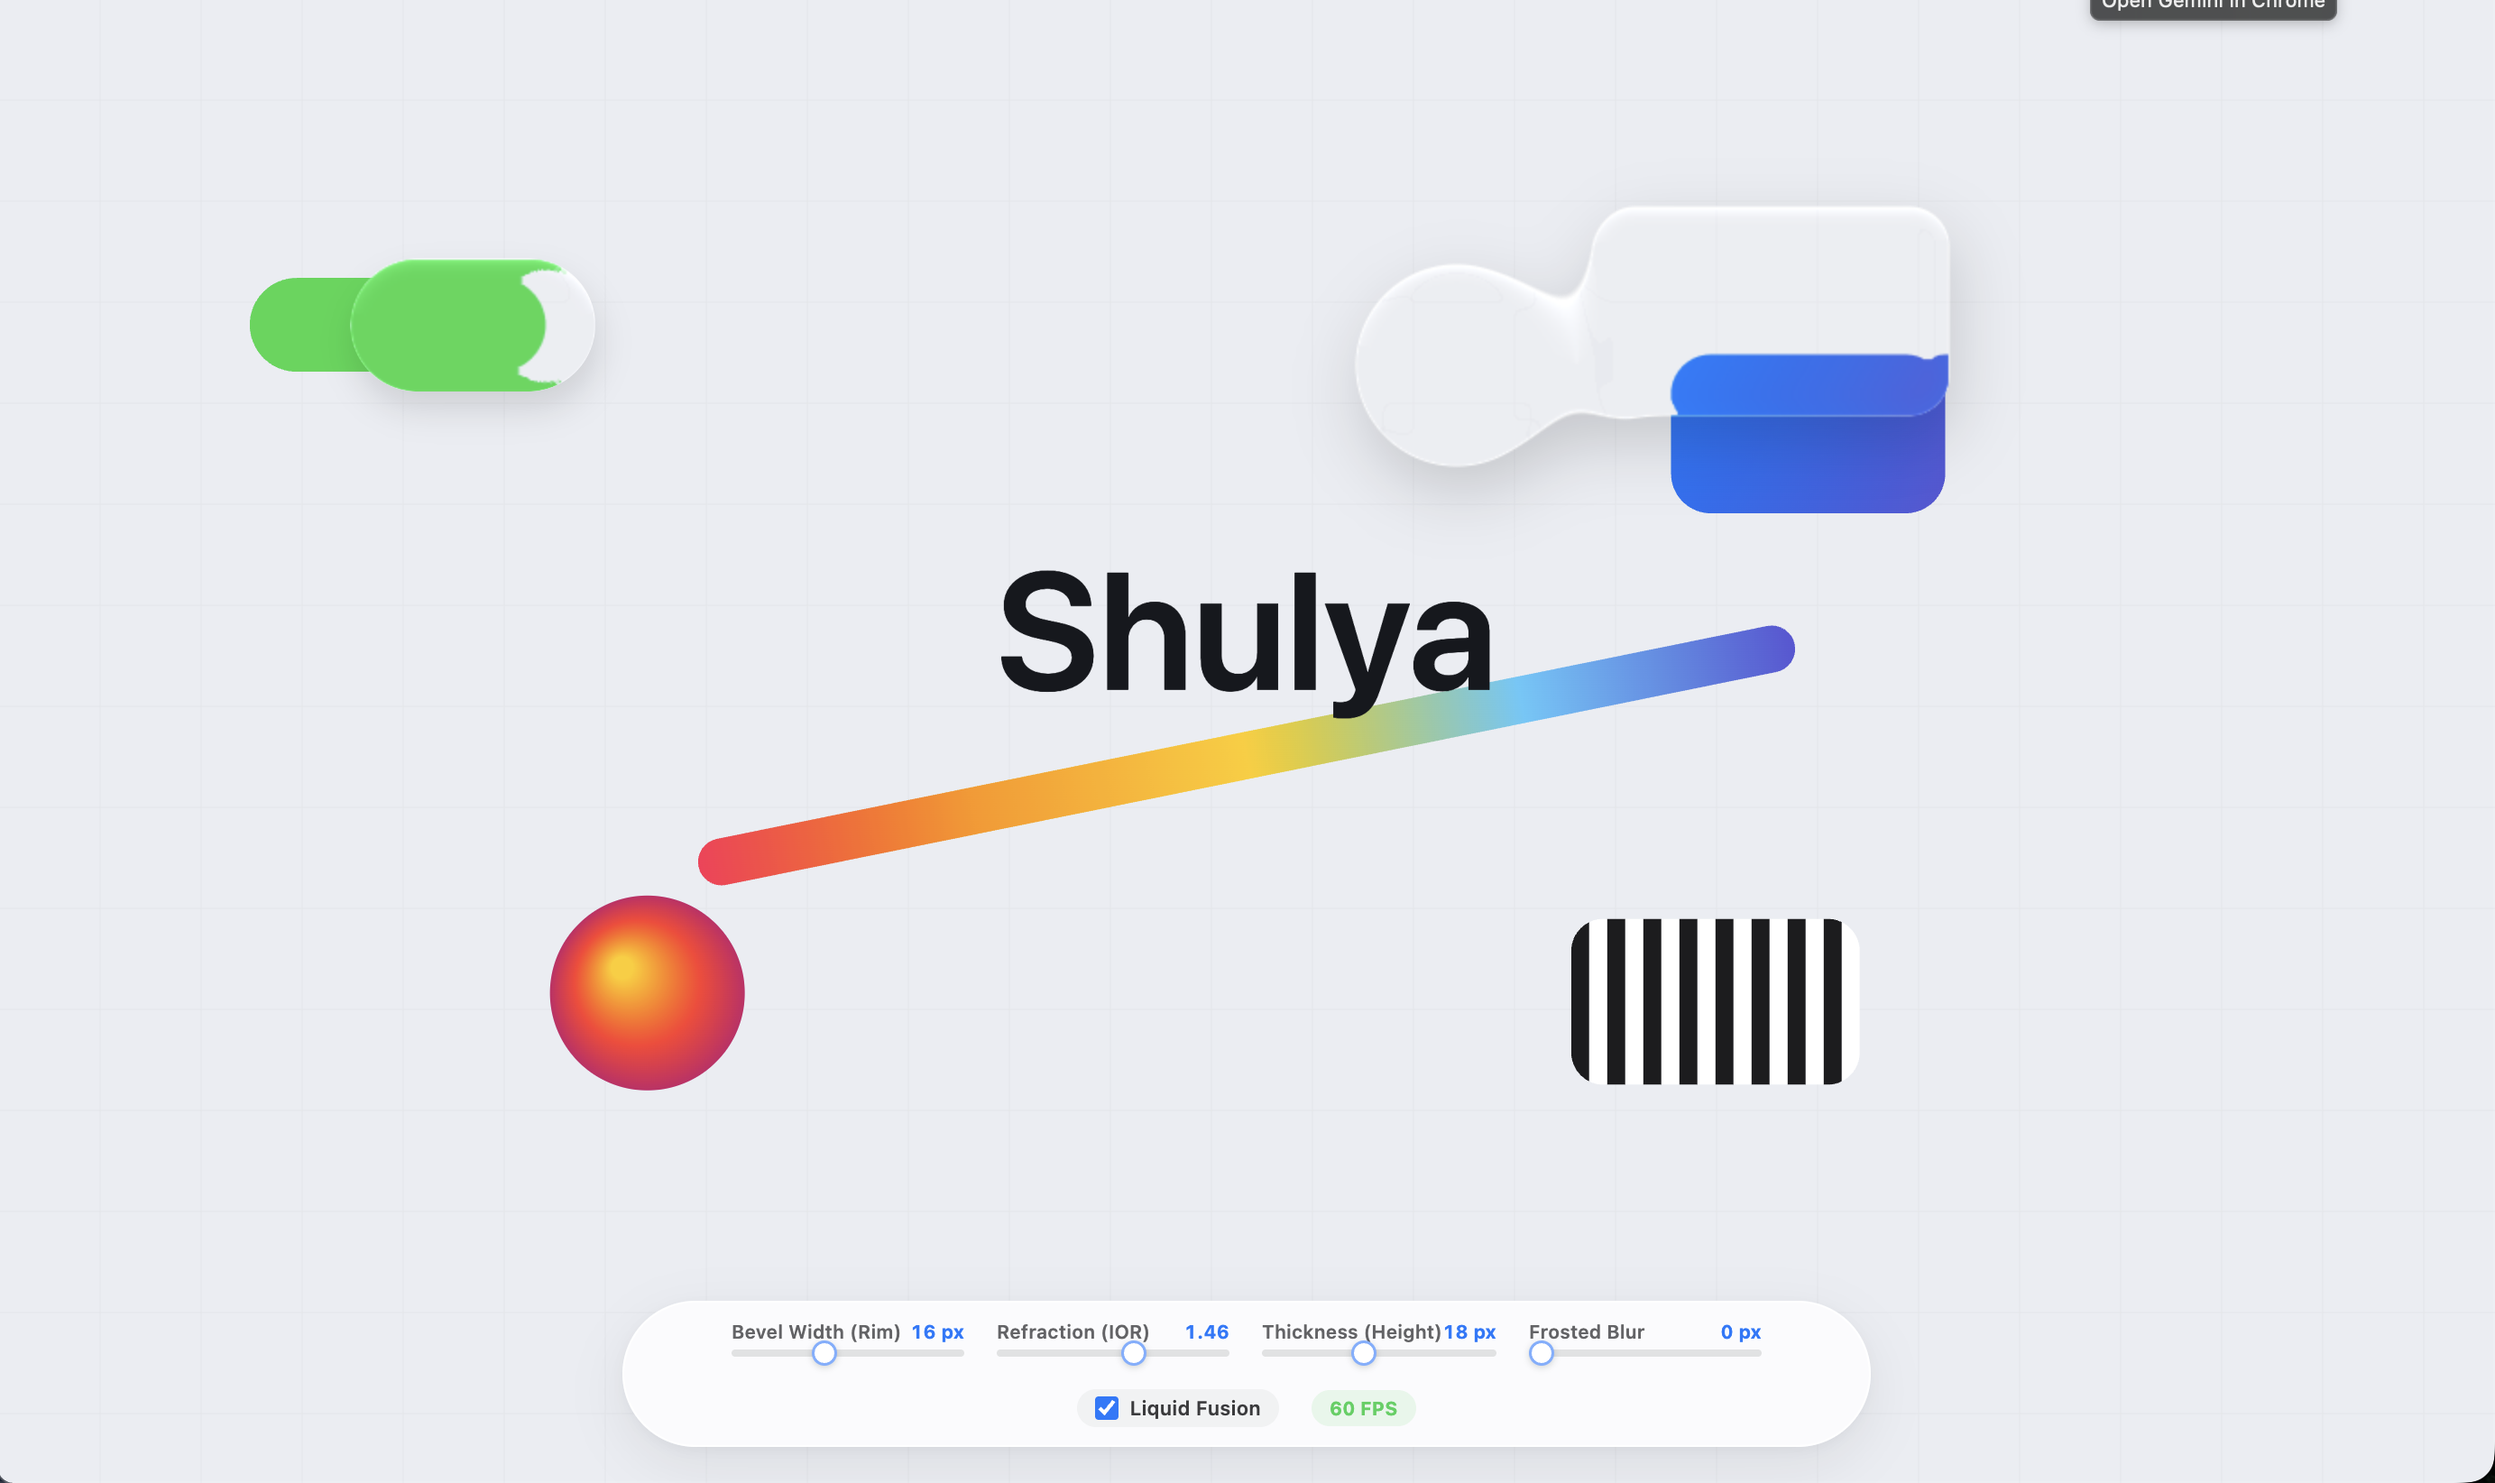
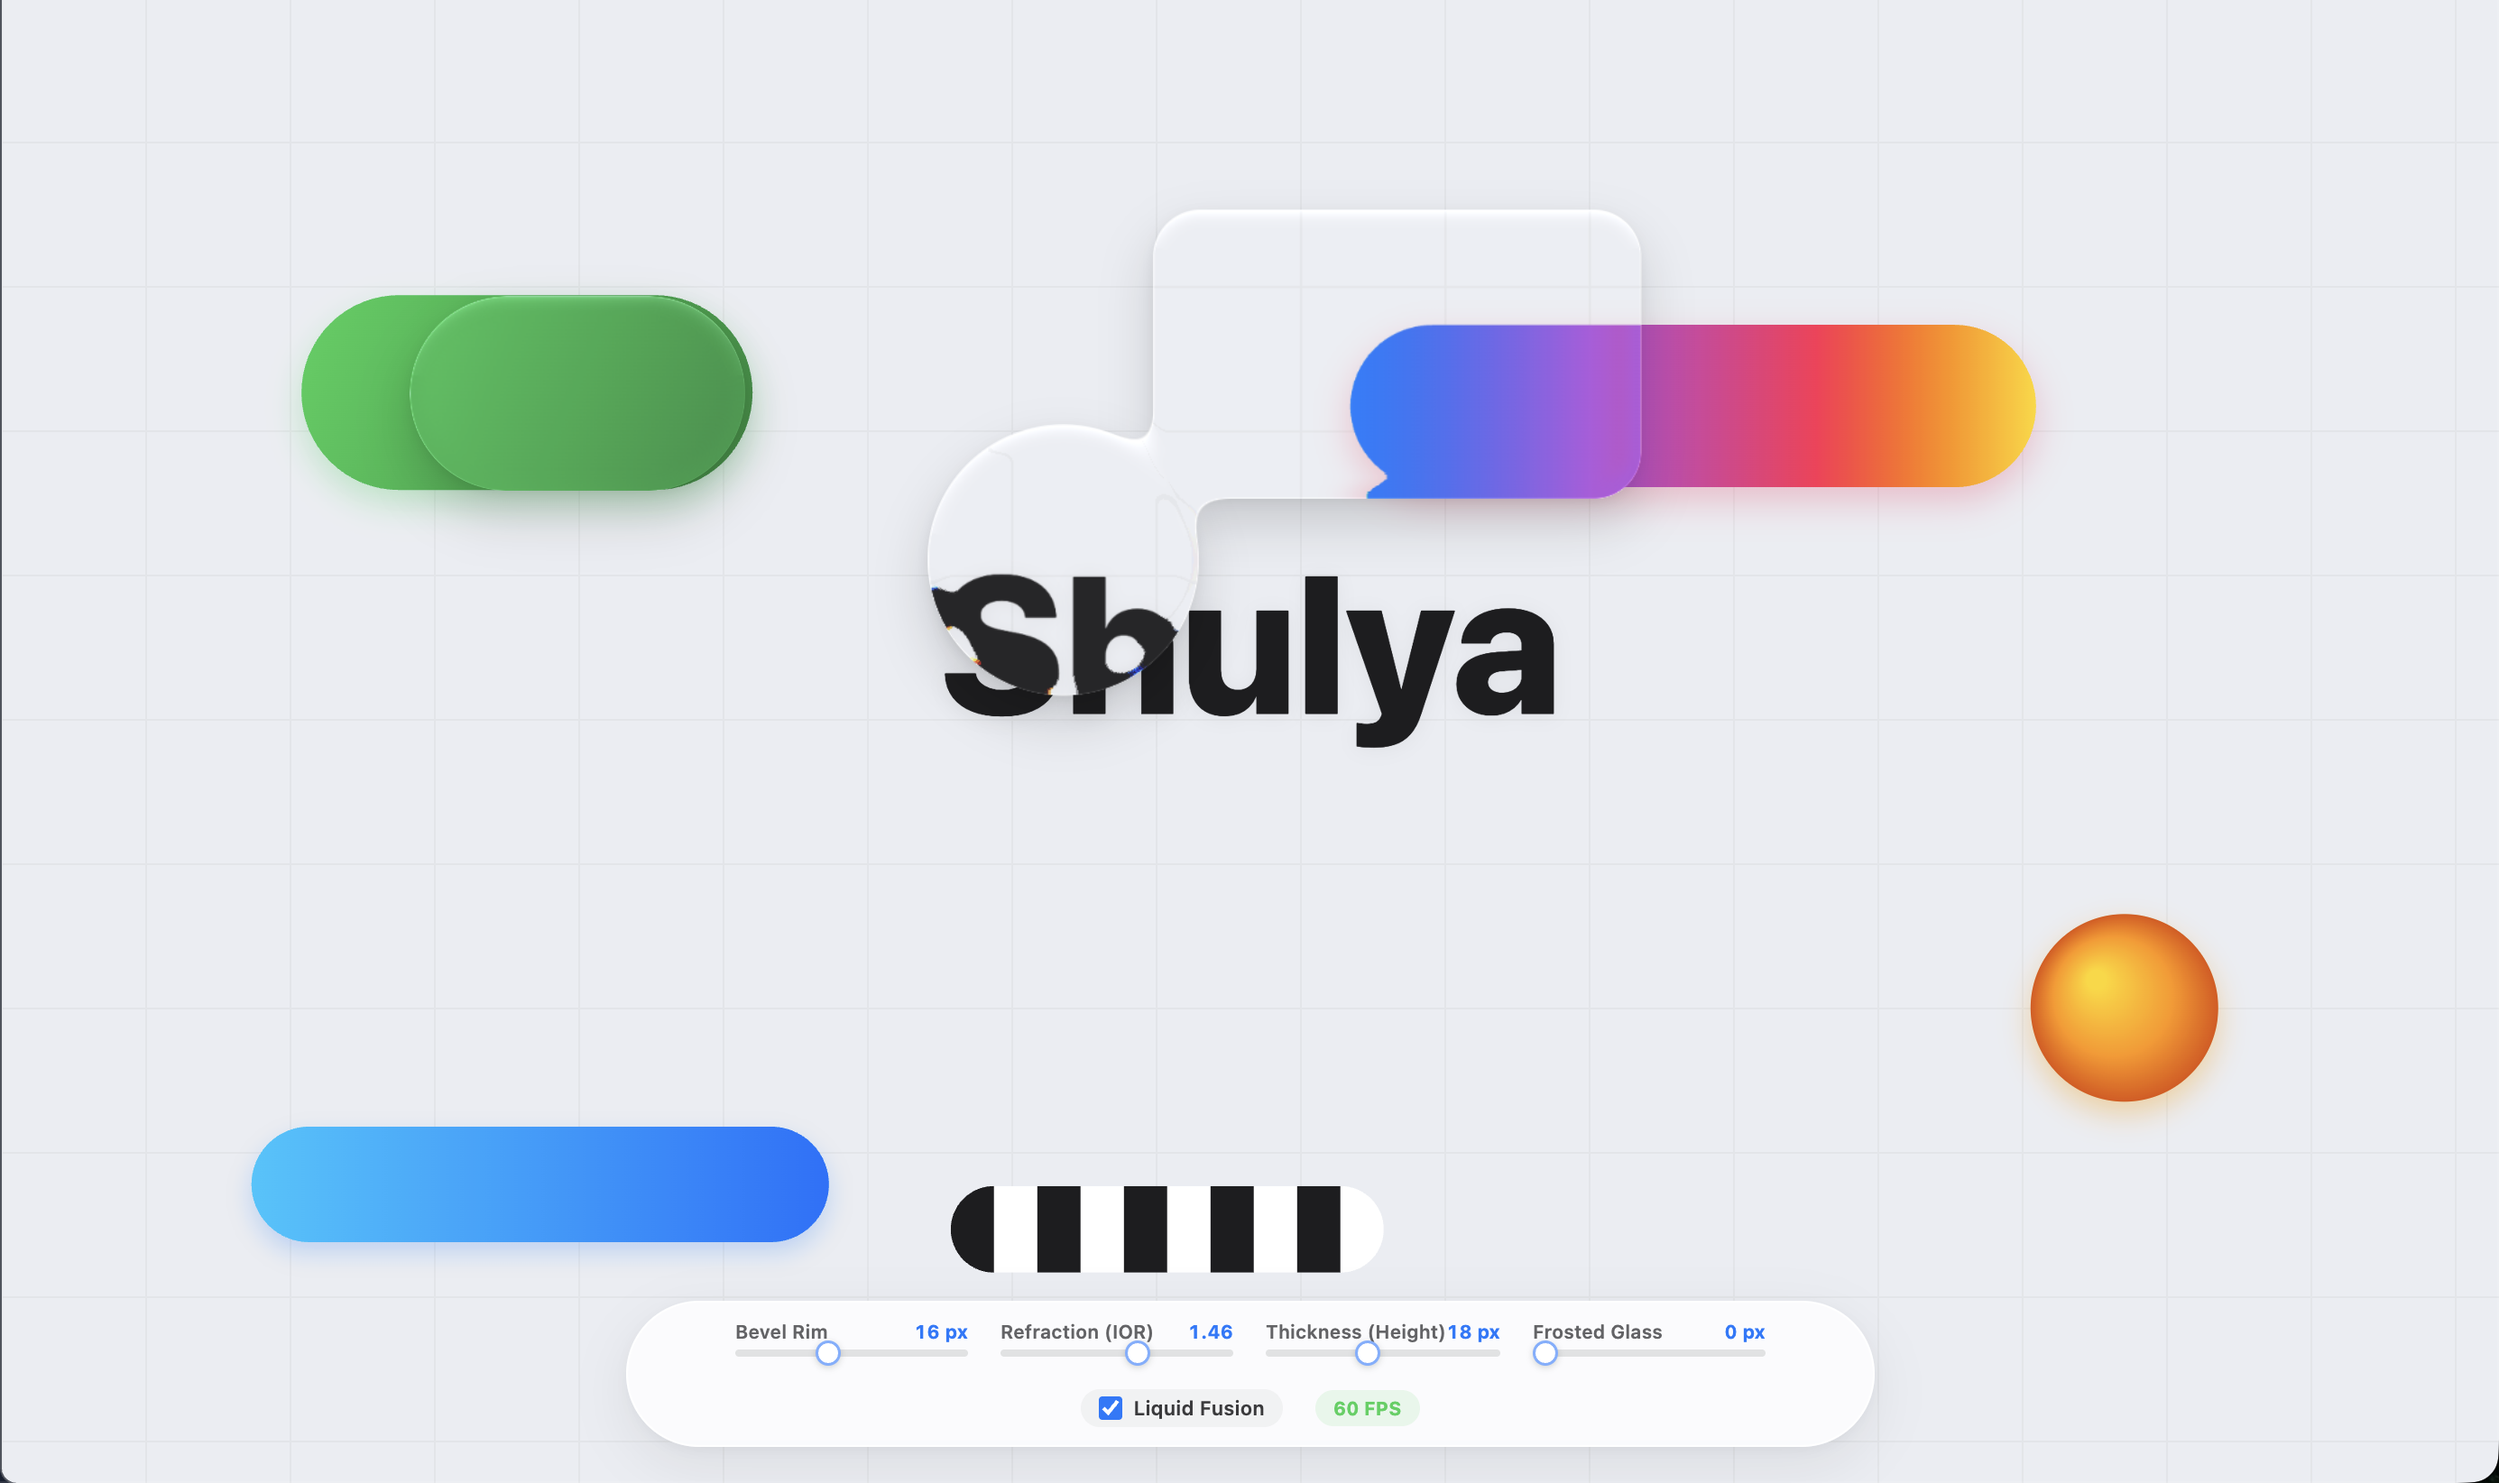
refactor: optimize rendering performance and refine fusion distance and blur fallbacks

diff --git a/src/core.js b/src/core.js
@@ -221,7 +221,7 @@ export function buildOpticalMapURI(width, height, borderRadius, rawOptions = {})
  */
 export function renderFusedCluster(ctx, sourceCtx, elements, rawOptions = {}, dpr = 1) {
   const options = normalizeOptions(rawOptions);
-  const fusionSpan = options.fusion ? (rawOptions.fusionDistance ?? 44) * dpr : 0;
+  const fusionSpan = options.fusion ? (rawOptions.fusionDistance ?? 24) * dpr : 0;
   const rimPx = Math.max(1, options.rim * dpr);
   const ior = options.ior;
   const heightPx = options.height * dpr;
@@ -259,19 +259,26 @@ export function renderFusedCluster(ctx, sourceCtx, elements, rawOptions = {}, dp
   const dstData = dstImg.data;
 
   const distGrid = new Float32Array(boxW * boxH);
-  const prep = elements.map((b) => ({
-    cx: (b.x + b.w * 0.5) * dpr,
-    cy: (b.y + b.h * 0.5) * dpr,
-    halfW: b.w * 0.5 * dpr,
-    halfH: b.h * 0.5 * dpr,
-    r: Math.min((b.borderRadius ?? 0) * dpr, b.w * 0.5 * dpr, b.h * 0.5 * dpr),
-    isCircle: b.shape === 'circle',
-    fusion: b.fusion !== undefined ? Boolean(b.fusion) : options.fusion,
-    tintR: b.tint ? b.tint[0] : 15,
-    tintG: b.tint ? b.tint[1] : 23,
-    tintB: b.tint ? b.tint[2] : 42,
-    tintA: b.tint ? b.tint[3] : 0.35
-  }));
+  const prep = elements.map((b) => {
+    const halfW = b.w * 0.5 * dpr;
+    const halfH = b.h * 0.5 * dpr;
+    const rad = (b.borderRadius ?? 0) * dpr;
+    const r = Math.min(rad, halfW, halfH);
+    const isCircle = b.shape === 'circle' || (Math.abs(halfW - halfH) < 1.0 && Math.abs(r - halfW) < 1.0);
+    return {
+      cx: (b.x + b.w * 0.5) * dpr,
+      cy: (b.y + b.h * 0.5) * dpr,
+      halfW,
+      halfH,
+      r,
+      isCircle,
+      fusion: b.fusion !== undefined ? Boolean(b.fusion) : options.fusion,
+      tintR: b.tint ? b.tint[0] : 15,
+      tintG: b.tint ? b.tint[1] : 23,
+      tintB: b.tint ? b.tint[2] : 42,
+      tintA: b.tint ? b.tint[3] : 0.35
+    };
+  });
 
   const primary = prep[0];
   const tR = primary.tintR;
@@ -279,8 +286,10 @@ export function renderFusedCluster(ctx, sourceCtx, elements, rawOptions = {}, dp
   const tB = primary.tintB;
   const tA = primary.tintA;
   const invTA = 1.0 - tA;
+  const span = fusionSpan;
+  const invSpan = span > 0.001 ? 1.0 / span : 0;
 
-  // Pass 1: Boundary evaluation across cluster bounding box
+  // Pass 1: Boundary evaluation across cluster bounding box (Inlined fast LUT math)
   for (let y = 0; y < boxH; y++) {
     const py = cMinY + y;
     const row = y * boxW;
@@ -289,22 +298,36 @@ export function renderFusedCluster(ctx, sourceCtx, elements, rawOptions = {}, dp
       let dCluster = Infinity;
       for (let i = 0; i < prep.length; i++) {
         const b = prep[i];
-        const dShape = b.isCircle
-          ? evalCircle(px - b.cx, py - b.cy, b.halfW)
-          : evalRoundedRect(px - b.cx, py - b.cy, b.halfW, b.halfH, b.r);
+        let dShape;
+        if (b.isCircle) {
+          dShape = Math.hypot(px - b.cx, py - b.cy) - b.halfW;
+        } else {
+          const qx = Math.abs(px - b.cx) - b.halfW + b.r;
+          const qy = Math.abs(py - b.cy) - b.halfH + b.r;
+          dShape = Math.min(Math.max(qx, qy), 0.0) + Math.hypot(Math.max(qx, 0.0), Math.max(qy, 0.0)) - b.r;
+        }
+
         if (i === 0) {
           dCluster = dShape;
-        } else if (b.fusion && fusionSpan > 0) {
-          dCluster = blendSurfaces(dCluster, dShape, fusionSpan);
-        } else {
-          dCluster = Math.min(dCluster, dShape);
+        } else if (b.fusion && span > 0.001) {
+          const diff = dCluster > dShape ? dCluster - dShape : dShape - dCluster;
+          if (diff < span) {
+            const pos = diff * invSpan * 255.0;
+            const pIdx = Math.min(254, pos | 0);
+            const wWeight = _T3[pIdx] + (_T3[pIdx + 1] - _T3[pIdx]) * (pos - pIdx);
+            dCluster = (dCluster < dShape ? dCluster : dShape) - wWeight * span;
+          } else if (dShape < dCluster) {
+            dCluster = dShape;
+          }
+        } else if (dShape < dCluster) {
+          dCluster = dShape;
         }
       }
       distGrid[row + x] = dCluster;
     }
   }
 
-  // Pass 2: O(1) lookup from distGrid + tabular chromatic shift (_T4)
+  // Pass 2: Fast vectorized lookup from distGrid + tabular chromatic shift (_T4)
   for (let y = 1; y < boxH - 1; y++) {
     const row = y * boxW;
     for (let x = 1; x < boxW - 1; x++) {
@@ -325,8 +348,11 @@ export function renderFusedCluster(ctx, sourceCtx, elements, rawOptions = {}, dp
         const innerDist = -d;
         if (innerDist < rimPx) {
           const u = innerDist / rimPx;
-          const gain = sampleTable(_T0, u);
-          disp = sampleTable(_T4, u);
+          const posU = u * 255.0;
+          const uIdx = Math.min(254, posU | 0);
+          const uFrac = posU - uIdx;
+          const gain = _T0[uIdx] + (_T0[uIdx + 1] - _T0[uIdx]) * uFrac;
+          disp = _T4[uIdx] + (_T4[uIdx + 1] - _T4[uIdx]) * uFrac;
 
           const dx = distGrid[row + x + 1] - distGrid[row + x - 1];
           const dy = distGrid[(y + 1) * boxW + x] - distGrid[(y - 1) * boxW + x];
@@ -339,7 +365,8 @@ export function renderFusedCluster(ctx, sourceCtx, elements, rawOptions = {}, dp
           offY = Math.round(-gy * shift);
 
           if (gy < -0.2) {
-            sheen = Math.round(sampleTable(_T2, u) * (-gy) * 0.78);
+            const sVal = _T2[uIdx] + (_T2[uIdx + 1] - _T2[uIdx]) * uFrac;
+            sheen = Math.round(sVal * (-gy) * 0.78);
           }
         } else {
           // Fast interior path: zero displacement inside flat region (-d >= rimPx)
@@ -354,7 +381,9 @@ export function renderFusedCluster(ctx, sourceCtx, elements, rawOptions = {}, dp
 
       const absD = Math.abs(d);
       if (absD < 3.0) {
-        glint = Math.round(sampleTable(_T1, absD * 0.33) * 0.65);
+        const posG = Math.min(254, absD * 0.33 * 255.0);
+        const gIdx = posG | 0;
+        glint = Math.round((_T1[gIdx] + (_T1[gIdx + 1] - _T1[gIdx]) * (posG - gIdx)) * 0.65);
       }
 
       const sxG = Math.max(0, Math.min(boxW - 1, x + offX));
@@ -449,7 +478,7 @@ function getReadableStrokeColor(borderCol, fallback = 'rgba(148, 163, 184, 0.55)
 }
 
 function getDevicePixelRatio() {
-  return typeof window !== 'undefined' ? Math.min(window.devicePixelRatio || 1, 2) : 1;
+  return typeof window !== 'undefined' ? Math.min(window.devicePixelRatio || 1, 1.5) : 1;
 }
 
 function ensureStageBuffers() {
@@ -692,13 +721,26 @@ function captureViewportStage(neededBlur) {
 
   stageCtx.restore();
 
-  // 5. Blur buffer for frosted glass
+  // 5. Blur buffer for frosted glass (Robust across all mobile WebKit & Blink engines)
   if (neededBlur > 0) {
     lastFrostedRadius = neededBlur;
     blurCtx.clearRect(0, 0, bw, bh);
-    blurCtx.filter = `blur(${neededBlur * dpr}px) saturate(135%)`;
+    const filterStr = `blur(${Math.round(neededBlur * dpr)}px)`;
+    blurCtx.filter = filterStr;
     blurCtx.drawImage(stageCanvas, 0, 0);
-    blurCtx.filter = 'none';
+
+    // Safari iOS fallback if CanvasRenderingContext2D.filter is unsupported or ignored
+    if (!blurCtx.filter || blurCtx.filter === 'none') {
+      const scale = Math.max(0.08, 1.0 / (1.0 + neededBlur * 0.45));
+      const sw = Math.max(4, Math.round(bw * scale));
+      const sh = Math.max(4, Math.round(bh * scale));
+      blurCtx.imageSmoothingEnabled = true;
+      blurCtx.imageSmoothingQuality = 'high';
+      blurCtx.drawImage(stageCanvas, 0, 0, sw, sh);
+      blurCtx.drawImage(blurCanvas, 0, 0, sw, sh, 0, 0, bw, bh);
+    } else {
+      blurCtx.filter = 'none';
+    }
   }
 }
 
@@ -709,13 +751,14 @@ function renderIsolatedController(ctrl, rect) {
   const dpr = getDevicePixelRatio();
   const w = Math.max(16, Math.round(rect.width * dpr));
   const h = Math.max(16, Math.round(rect.height * dpr));
-  const rad = ctrl._getRadius() * dpr;
+  const rad = ctrl._getRadius();
+  const radPx = Math.min(rad * dpr, w * 0.5, h * 0.5);
 
   if (
     !ctrl._lut ||
     ctrl._lut.w !== w ||
     ctrl._lut.h !== h ||
-    Math.abs(ctrl._lut.rad - Math.min(rad, w * 0.5, h * 0.5)) > 1.0
+    Math.abs(ctrl._lut.rad - radPx) > 1.0
   ) {
     ctrl._lut = buildElementLUT(w, h, rad, ctrl.options, dpr);
   }
@@ -798,7 +841,7 @@ function renderIsolatedController(ctrl, rect) {
   ctrl._canvas.style.opacity = '1';
 }
 
-function areRectsTouching(r1, r2, threshold = 42) {
+function areRectsTouching(r1, r2, threshold = 24) {
   const dx = Math.max(
     0,
     Math.abs(r1.left + r1.width * 0.5 - (r2.left + r2.width * 0.5)) -
@@ -868,7 +911,7 @@ function renderAllActiveLenses() {
     if (!visible[i].ctrl.options.fusion) continue;
     for (let j = i + 1; j < n; j++) {
       if (!visible[j].ctrl.options.fusion) continue;
-      if (areRectsTouching(visible[i].rect, visible[j].rect, 54)) {
+      if (areRectsTouching(visible[i].rect, visible[j].rect, 24)) {
         union(i, j);
       }
     }
@@ -886,21 +929,13 @@ function renderAllActiveLenses() {
   for (const group of clusters.values()) {
     if (group.length === 1) {
       const { ctrl, rect } = group[0];
-      if (ctrl._savedShadow && ctrl.element.style.boxShadow === 'none') {
-        ctrl.element.style.boxShadow = ctrl._savedInlineShadow || '';
-      }
       if (rect.bottom > 1 && rect.top < vh) {
         renderIsolatedController(ctrl, rect);
       }
     } else {
       hasFusedCluster = true;
-      let anyHasShadow = false;
       for (const item of group) {
         item.ctrl._canvas.style.opacity = '0';
-        if (item.ctrl._savedShadow) {
-          anyHasShadow = true;
-          item.ctrl.element.style.boxShadow = 'none';
-        }
       }
       const primaryCtrl = group[group.length - 1].ctrl;
       const sourceCtx = primaryCtrl.options.frosted > 0 ? blurCtx : stageCtx;
@@ -921,16 +956,14 @@ function renderAllActiveLenses() {
         elements,
         {
           ...primaryCtrl.options,
-          fusionDistance: 64
+          fusionDistance: 24
         },
         dpr
       );
 
       if (box && clusterOverlayCanvas) {
         clusterOverlayCanvas.style.display = 'block';
-        clusterOverlayCanvas.style.filter = anyHasShadow
-          ? 'drop-shadow(3px 14px 18px rgba(0, 0, 0, 0.16))'
-          : 'none';
+        clusterOverlayCanvas.style.filter = 'none';
         clusterOverlayCanvas.style.transform = `translate3d(${box.cMinX / dpr}px, ${box.cMinY / dpr}px, 0)`;
         clusterOverlayCanvas.style.width = `${box.boxW / dpr}px`;
         clusterOverlayCanvas.style.height = `${box.boxH / dpr}px`;

diff --git a/example/src/App.jsx b/example/src/App.jsx
@@ -342,7 +342,7 @@ export default function App() {
       <div className="shelf-bar">
         <div className="ctrl">
           <div className="ctrl-head">
-            <span>Ширина фаски (Rim)</span>
+            <span>Bevel Rim</span>
             <span className="ctrl-val">{rim} px</span>
           </div>
           <input
@@ -357,7 +357,7 @@ export default function App() {
 
         <div className="ctrl">
           <div className="ctrl-head">
-            <span>Преломление K (IOR)</span>
+            <span>Refraction (IOR)</span>
             <span className="ctrl-val">{ior.toFixed(2)}</span>
           </div>
           <input
@@ -372,7 +372,7 @@ export default function App() {
 
         <div className="ctrl">
           <div className="ctrl-head">
-            <span>Толщина (Height)</span>
+            <span>Thickness (Height)</span>
             <span className="ctrl-val">{height} px</span>
           </div>
           <input
@@ -387,7 +387,7 @@ export default function App() {
 
         <div className="ctrl">
           <div className="ctrl-head">
-            <span>Матовость (Frosted)</span>
+            <span>Frosted Glass</span>
             <span className="ctrl-val">{frosted} px</span>
           </div>
           <input
@@ -406,7 +406,7 @@ export default function App() {
             checked={fusion}
             onChange={(e) => setFusion(e.target.checked)}
           />
-          <span>Слияние (Fusion)</span>
+          <span>Liquid Fusion</span>
         </label>
 
         <div className="fps-tag">{fps} FPS</div>
